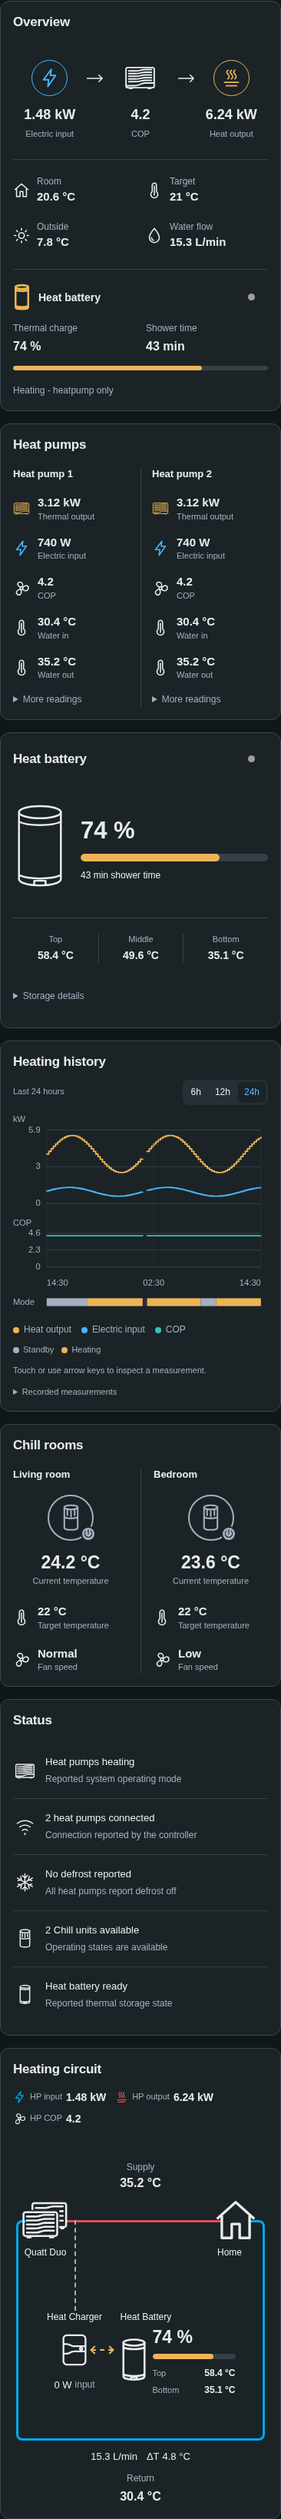
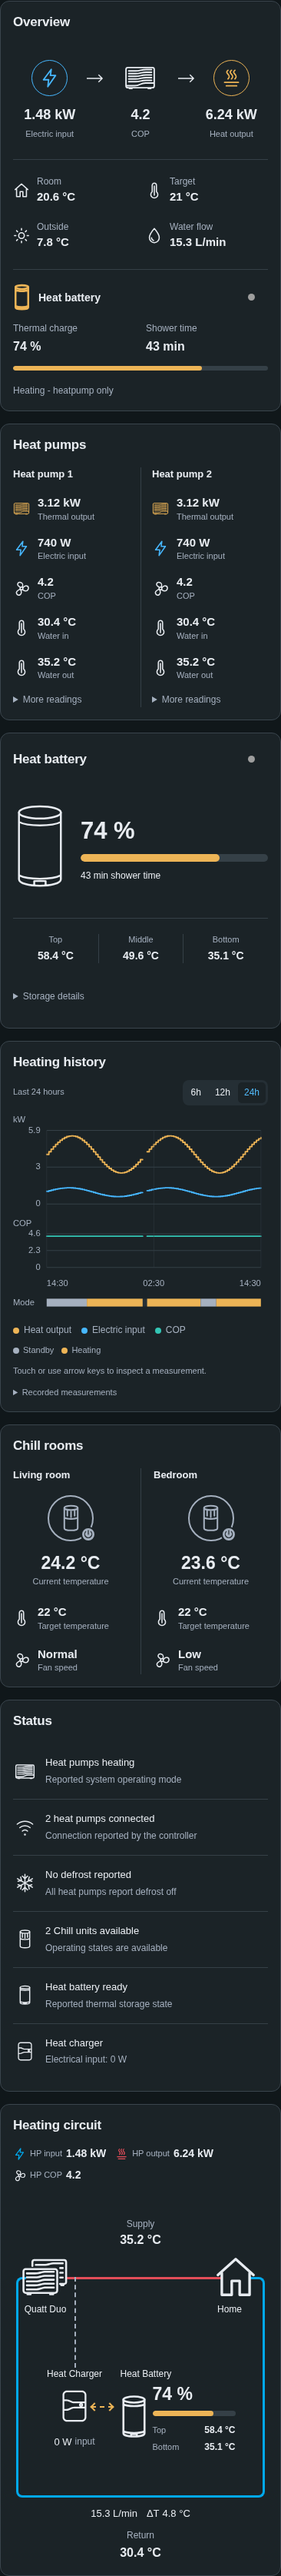
Separate heat battery and heat charger status rows

diff --git a/src/data/status.ts b/src/data/status.ts
@@ -13,7 +13,12 @@ export function buildStatus(snapshot: Snapshot): StatusRow[] {
   if (snapshot.heatPumps.length && snapshot.heatPumps.every(d => d.available && d.metrics.defrost?.value === 0)) rows.push({key:'no-defrost',title:'No defrost reported',detail:'All heat pumps report defrost off',tone:'neutral',icon:'snow'});
   const chills = snapshot.chills.filter(d => d.available && d.metrics.status?.text && d.metrics.status.text.toLowerCase() !== 'offline');
   if (chills.length) rows.push({key:'chills-available',title:`${chills.length} Chill unit${chills.length===1?'':'s'} available`,detail:'Operating states are available',tone:'good',icon:'chill'});
-  if (snapshot.heatBattery?.available && snapshot.heatBattery.metrics.status?.text) rows.push({key:'battery-status',title:`Heat battery ${snapshot.heatBattery.metrics.status.text.toLowerCase()}`,detail:'Reported thermal storage state',tone:'neutral',icon:'tank',entityId:snapshot.heatBattery.metrics.status.entityId});
+  const battery = snapshot.heatBattery, charger = snapshot.heatCharger;
+  const charging = battery?.available && battery.metrics.charging?.value === 1;
+  const batteryState = charging ? 'charging' : battery?.metrics.status?.text?.toLowerCase();
+  if (battery?.available && batteryState) rows.push({key:'battery-status',title:`Heat battery ${batteryState}`,detail:'Reported thermal storage state',tone:charging||batteryState==='charging'?'good':'neutral',icon:'tank',entityId:charging?battery.metrics.charging?.entityId:battery.metrics.status?.entityId});
+  const chargerPower = charger?.metrics.heaterPower;
+  if (charger?.available) rows.push({key:'charger-status',title:'Heat charger',detail:chargerPower?.value!=null?`Electrical input: ${chargerPower.value} ${chargerPower.unit}`:'Electrical input unavailable',tone:'neutral',icon:'heat-charger',entityId:chargerPower?.entityId});
   if (system.silent?.value === 1) rows.push({ key: 'silent-system', title: 'Silent mode active', detail: 'Quatt reports a system sound limit.', tone: 'neutral', icon: 'mdi:volume-low', entityId: system.silent.entityId });
   const check = (device: QuattDevice) => {
     const m = device.metrics, prefix = device.name;
@@ -27,8 +32,6 @@ export function buildStatus(snapshot: Snapshot): StatusRow[] {
     if (m.waterWarning?.value === 1) rows.push({ key: `${device.id}-water`, title: `${prefix} water tank warning`, detail: 'Quatt reports a water tank level warning.', tone: 'warning', icon: 'mdi:water-alert-outline', entityId: m.waterWarning.entityId });
   };
   [...snapshot.heatPumps, ...snapshot.chills, ...[snapshot.heatBattery, snapshot.heatCharger].filter((device): device is QuattDevice => !!device)].forEach(check);
-  const battery = snapshot.heatBattery;
-  if (battery?.metrics.charging?.value === 1) rows.push({ key: 'battery-charging', title: 'Heat battery charging', tone: 'good', icon: 'mdi:battery-charging', entityId: battery.metrics.charging.entityId });
   if (battery?.metrics.hotWater?.value === 1) rows.push({ key: 'hot-water', title: 'Domestic hot water active', tone: 'neutral', icon: 'mdi:shower', entityId: battery.metrics.hotWater.entityId });
   if (!rows.length) rows.push({ key: 'no-status', title: 'Status unavailable', detail: 'No supported operating or diagnostic states are available.', tone: 'neutral', icon: 'mdi:information-outline' });
   return rows;

diff --git a/tests/data/status.test.ts b/tests/data/status.test.ts
@@ -1,0 +1,31 @@
+import {describe,it,expect} from 'vitest';
+import {createDemo} from '../../src/demo/fixtures';
+import {buildSnapshot} from '../../src/data';
+import {buildStatus} from '../../src/data/status';
+
+function snapshot(){const {hass,registry}=createDemo();return buildSnapshot(hass,registry,{type:'custom:quatt-status-card'});}
+describe('separate battery and charger status',()=>{
+ it('combines the storage status and charging flag into one battery row',()=>{
+  const s=snapshot();
+  s.heatBattery!.metrics.status={value:null,text:'Charging',unit:'',entityId:'sensor.battery_status'};
+  s.heatBattery!.metrics.charging={value:1,text:null,unit:'',entityId:'binary_sensor.charging'};
+  const rows=buildStatus(s),battery=rows.filter(r=>r.key.startsWith('battery-'));
+  expect(battery).toHaveLength(1);expect(battery[0]).toMatchObject({title:'Heat battery charging',entityId:'binary_sensor.charging'});
+  expect(rows.find(r=>r.key==='charger-status')).toMatchObject({title:'Heat charger',detail:'Electrical input: 0 W',icon:'heat-charger'});
+ });
+ it('uses charger telemetry independently and does not label battery charging as charger activity',()=>{
+  const s=snapshot();s.heatBattery!.metrics.charging!.value=0;s.heatBattery!.metrics.status!.text='Off';
+  s.heatCharger!.metrics.heaterPower!.value=1200;
+  const rows=buildStatus(s);expect(rows.find(r=>r.key==='battery-status')?.title).toBe('Heat battery off');
+  expect(rows.find(r=>r.key==='charger-status')?.detail).toBe('Electrical input: 1200 W');
+  s.heatCharger!.metrics.heaterPower!.value=null;
+  expect(buildStatus(s).find(r=>r.key==='charger-status')?.detail).toBe('Electrical input unavailable');
+ });
+ it('preserves offline alerts without positive battery or charger status rows',()=>{
+  const s=snapshot();s.heatBattery!.available=false;s.heatBattery!.metrics.charging!.value=1;s.heatCharger!.available=false;
+  const rows=buildStatus(s);expect(rows.some(r=>['battery-status','charger-status'].includes(r.key))).toBe(false);
+  expect(rows.filter(r=>r.key.endsWith('-offline'))).toHaveLength(2);
+  s.heatBattery=undefined;s.heatCharger=undefined;
+  expect(buildStatus(s).some(r=>['battery-status','charger-status'].includes(r.key))).toBe(false);
+ });
+});

diff --git a/src/fields.ts b/src/fields.ts
@@ -14,7 +14,7 @@ export const cardFields:Record<CardType,FieldOption[]>={
   'custom:quatt-heat-battery-card': [field('charge','Thermal charge'),field('showerMinutes','Shower time'),field('topTemperature','Top temperature'),field('middleTemperature','Middle temperature'),field('bottomTemperature','Bottom temperature'),field('status','Operating status'),field('heaterPower','Charger input'),field('waterPressure','Water pressure'),field('charging','Storage charging'),field('hotWater','Hot-water use'),field('boost','Boost')],
   'custom:quatt-chill-card': [field('roomTemperature','Room temperature'),field('targetTemperature','Target temperature'),field('fanMode','Fan speed'),field('status','Operating status'),field('mode','Operating mode'),field('waterWarning','Water tank warning')],
   'custom:quatt-history-card': [...power,field('mode','Operating-mode timeline')],
-  'custom:quatt-status-card': [field('mode','Operating mode'),field('connectivity','Connectivity and availability'),field('defrost','Defrost'),field('heatBattery','Heat battery and hot water'),field('limits','COP limits and silent mode'),field('alerts','Faults and water warnings')],
+  'custom:quatt-status-card': [field('mode','Operating mode'),field('connectivity','Connectivity and availability'),field('defrost','Defrost'),field('heatBattery','Heat battery and hot water'),field('heatCharger','Heat charger'),field('limits','COP limits and silent mode'),field('alerts','Faults and water warnings')],
 };
 export function fieldVisible(config:CardConfig,key:string):boolean {
   return config.fields?.[key] ?? cardFields[config.type]?.find(f=>f.key===key)?.default ?? true;
@@ -32,6 +32,7 @@ export function statusField(key:string):string {
   if(key==='mode')return 'mode';
   if(key==='no-defrost'||key.endsWith('-defrost'))return 'defrost';
   if(key==='controller'||key==='pumps-connected'||key==='chills-available'||key.endsWith('-offline'))return 'connectivity';
+  if(key==='charger-status')return 'heatCharger';
   if(key.startsWith('battery-')||key==='hot-water')return 'heatBattery';
   if(key==='silent-system'||key.endsWith('-silent')||key.endsWith('-limited'))return 'limits';
   return 'alerts';

diff --git a/tests/data/fields.test.ts b/tests/data/fields.test.ts
@@ -26,7 +26,8 @@ describe('displayed fields',()=>{
   expect(statusField('arbitrary-id-offline')).toBe('connectivity');
   expect(statusField('arbitrary-id-defrost')).toBe('defrost');
   expect(statusField('arbitrary-id-limited')).toBe('limits');
-  expect(statusField('battery-charging')).toBe('heatBattery');
+  expect(statusField('battery-status')).toBe('heatBattery');
+  expect(statusField('charger-status')).toBe('heatCharger');
   expect(statusField('arbitrary-id-water')).toBe('alerts');
  });
 });

diff --git a/README.md b/README.md
@@ -272,7 +272,7 @@ Omitted keys use their defaults. An empty `fields: {}` also uses defaults. Expli
 | `custom:quatt-heat-battery-card` | `charge`, `showerMinutes`, `topTemperature`, `middleTemperature`, `bottomTemperature`, `status`, `heaterPower`, `waterPressure`, `charging`, `hotWater`, `boost` |
 | `custom:quatt-chill-card` | `roomTemperature`, `targetTemperature`, `fanMode`, `status`, `mode`, `waterWarning` |
 | `custom:quatt-history-card` | `electricPower`, `cop`, `heatPower`, `mode` |
-| `custom:quatt-status-card` | `mode`, `connectivity`, `defrost`, `heatBattery`, `limits`, `alerts` |
+| `custom:quatt-status-card` | `mode`, `connectivity`, `defrost`, `heatBattery`, `heatCharger`, `limits`, `alerts` |
 
 ### Minimal heat battery in Overview
 

diff --git a/CHANGELOG.md b/CHANGELOG.md
@@ -2,6 +2,8 @@
 
 ## 0.10.1
 
+- Combine duplicate Heat Battery status/charging entries and add a separate Heat Charger row showing its own electrical input.
+
 - Replace the Heat Battery card status text with the same green/grey dot used by Overview. Share status mapping, theme colors, accessible descriptions, and sensor-detail interaction between the cards.
 
 ## 0.10.0
